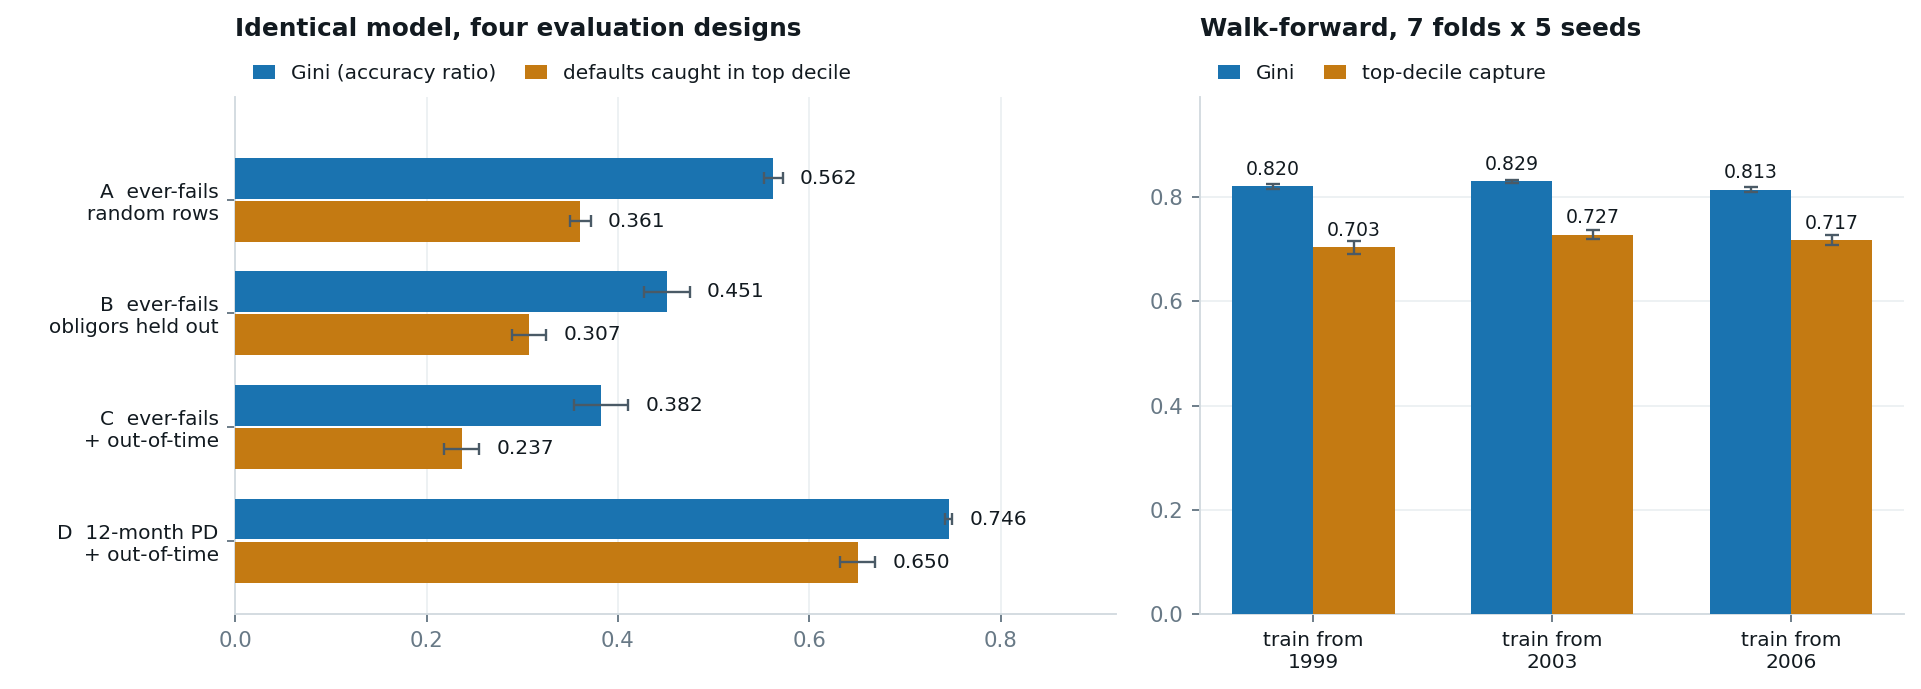
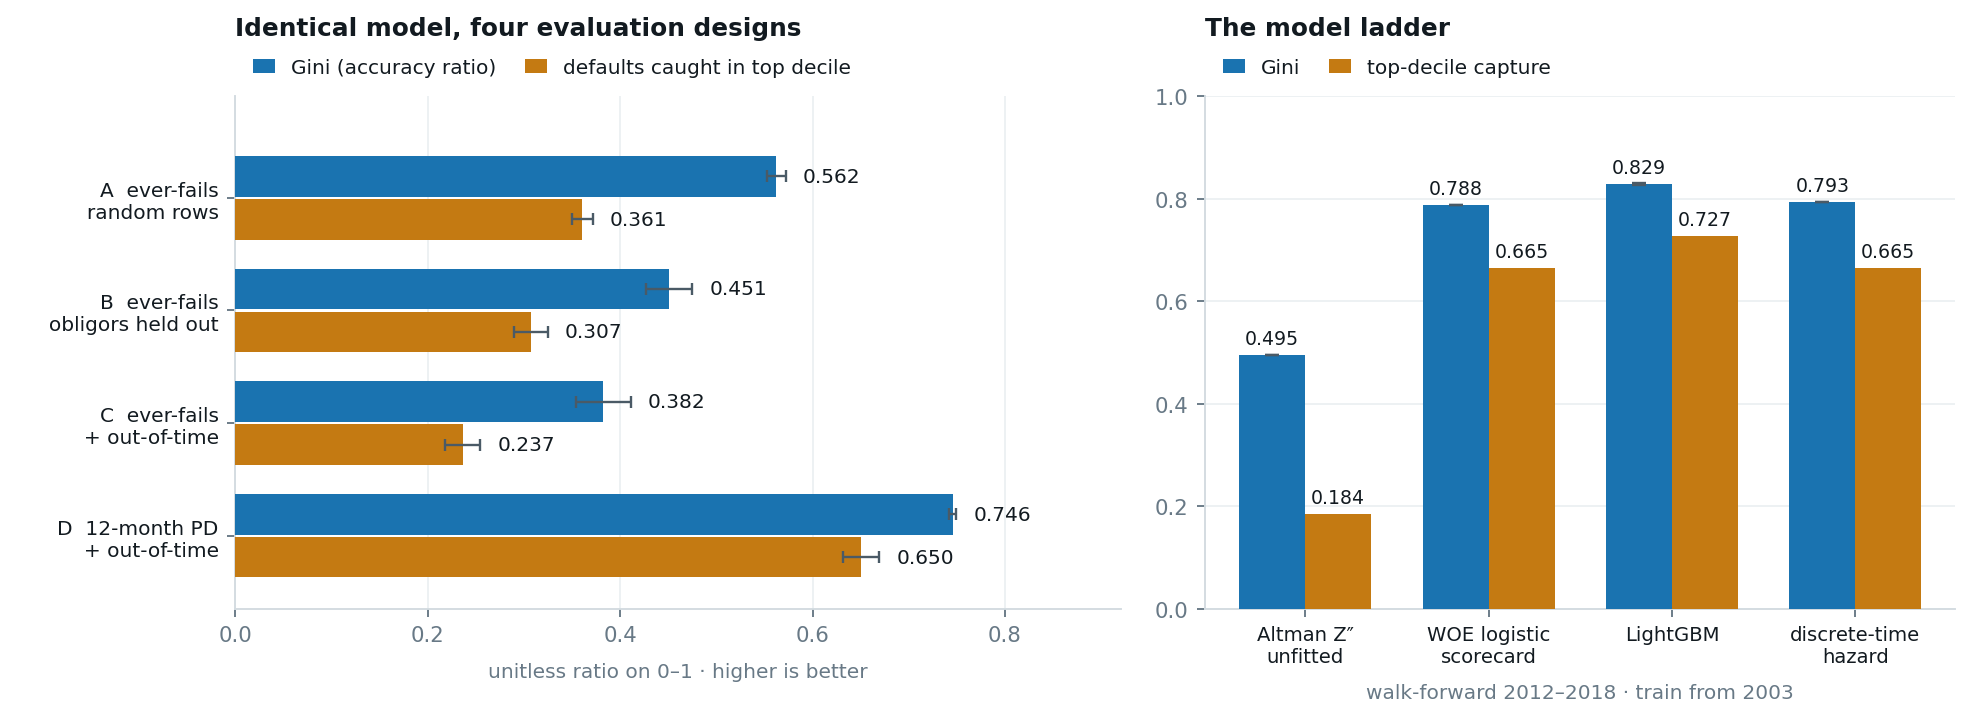
W4: model ladder - Altman, WOE scorecard, LightGBM, discrete-time hazard
Four rungs under the walk-forward + 5-seed protocol. LightGBM leads at Gini 0.829
/ 0.727 top-decile capture; the WOE scorecard reaches 0.788 / 0.665 and is what
would actually clear model validation. Altman Z-double-prime ranks the population
at 0.495 but catches only 18% of the tail.

Caught an exact linear dependency in the feature library (altman_z is a linear
combination of four other columns) that made the maximum-likelihood hazard fit
singular and scored it at near-chance. Column-pivoted QR now selects an
independent subset; a test asserts the dependency still exists so the guard is
not removed by accident.

diff --git a/src/ladder.py b/src/ladder.py
@@ -1,0 +1,203 @@
+"""
+W4 - The model ladder.
+
+Each rung has to beat the one below it to survive.  A bank does not adopt a gradient
+booster because it is a gradient booster; it adopts one because the scorecard it would
+otherwise have to defend to model risk management is measurably worse.
+
+  1. Altman Z''          1968, unfitted, zero parameters. The floor.
+  2. WOE logistic        Weight-of-evidence binning + logistic regression. This is what
+                         a credit scorecard actually is, and what gets validated.
+  3. LightGBM            Gradient boosting on the same features.
+  4. Discrete-time       Complementary log-log hazard with a baseline in obligor tenure -
+     hazard              the statistically correct framing given right-censoring.
+
+All four are fitted inside each walk-forward fold, on training rows only.  Binning
+edges, WOE tables, imputation medians and scalers are fitted on train and applied to
+test; nothing crosses the fold boundary.
+"""
+from __future__ import annotations
+import numpy as np, pandas as pd, warnings
+import lightgbm as lgb
+from sklearn.linear_model import LogisticRegression
+from sklearn.metrics import roc_auc_score, average_precision_score, brier_score_loss
+from evaluate import folds, PARAMS, SEEDS
+
+warnings.filterwarnings('ignore')
+N_BINS = 10
+SMOOTH = 0.5
+
+
+# ------------------------------------------------------------------ weight of evidence
+class WOE:
+    """Quantile binning + weight of evidence. NaN gets its own bin, as it should:
+    a missing ratio is information, not something to impute away."""
+
+    def fit(self, X: pd.DataFrame, y: np.ndarray, n_bins=N_BINS):
+        self.cols_, self.edges_, self.table_ = list(X.columns), {}, {}
+        bad_tot, good_tot = y.sum(), (1 - y).sum()
+        for c in self.cols_:
+            x = X[c].to_numpy(float)
+            e = np.unique(np.nanquantile(x[np.isfinite(x)], np.linspace(0, 1, n_bins + 1)))
+            self.edges_[c] = e[1:-1] if len(e) > 2 else np.array([np.nanmedian(x)])
+            b = self._bin(x, c)
+            w = {}
+            for k in range(len(self.edges_[c]) + 2):          # +1 interior, +1 NaN bin
+                m = b == k
+                bad = y[m].sum() + SMOOTH
+                good = (1 - y[m]).sum() + SMOOTH
+                w[k] = np.log((bad / (bad_tot + SMOOTH)) / (good / (good_tot + SMOOTH)))
+            self.table_[c] = w
+        return self
+
+    def _bin(self, x, c):
+        b = np.digitize(x, self.edges_[c])
+        b = np.where(np.isfinite(x), b, len(self.edges_[c]) + 1)
+        return b
+
+    def transform(self, X: pd.DataFrame) -> np.ndarray:
+        out = np.empty((len(X), len(self.cols_)))
+        for j, c in enumerate(self.cols_):
+            b = self._bin(X[c].to_numpy(float), c)
+            t = self.table_[c]
+            out[:, j] = np.vectorize(lambda k: t.get(k, 0.0))(b)
+        return out
+
+
+# ------------------------------------------------------------------ rungs
+def rung_altman(Xtr, ytr, Xte, dtr, dte, seed):
+    """No fitting. Lower Z'' is riskier, so the score is its negation."""
+    return -Xte['altman_z'].to_numpy(float)
+
+
+def _prep(Xtr, Xte):
+    med = Xtr.median()
+    a, b = Xtr.fillna(med), Xte.fillna(med)
+    mu, sd = a.mean(), a.std().replace(0, 1)
+    return ((a - mu) / sd).to_numpy(), ((b - mu) / sd).to_numpy()
+
+
+def rung_woe_logit(Xtr, ytr, Xte, dtr, dte, seed):
+    w = WOE().fit(Xtr, ytr)
+    m = LogisticRegression(C=0.5, max_iter=2000, class_weight='balanced')
+    m.fit(w.transform(Xtr), ytr)
+    return m.predict_proba(w.transform(Xte))[:, 1]
+
+
+def rung_lightgbm(Xtr, ytr, Xte, dtr, dte, seed):
+    m = lgb.LGBMClassifier(**{**PARAMS, 'random_state': seed}).fit(Xtr, ytr)
+    return m.predict_proba(Xte)[:, 1]
+
+
+def rung_hazard(Xtr, ytr, Xte, dtr, dte, seed):
+    """Discrete-time hazard: cloglog link with a step baseline in obligor tenure.
+
+    On person-period data a complementary log-log link makes the fitted coefficients
+    proportional-hazards, which is the model a survival analyst would write down for
+    right-censored panel data.  Falls back to logit if the GLM does not converge.
+    """
+    import statsmodels.api as sm
+    from scipy.linalg import qr
+    # WOE-transformed inputs, not raw standardised ratios, so that this rung differs
+    # from rung 2 only in the survival framing and the tenure baseline - otherwise the
+    # comparison measures functional form (binned vs linear) rather than the thing
+    # being tested.  On raw ratios this rung scores 0.551; the gap was the skew of the
+    # untransformed inputs, not the hazard formulation.
+    w = WOE().fit(Xtr, ytr)
+    a, b = w.transform(Xtr), w.transform(Xte)
+    ten_tr = np.clip(dtr.tenure.to_numpy(), 0, 9)
+    ten_te = np.clip(dte.tenure.to_numpy(), 0, 9)
+    Dtr = np.eye(10)[ten_tr]
+    Dte = np.eye(10)[ten_te]
+    A = np.hstack([a, Dtr])          # no intercept: tenure dummies span it
+    B = np.hstack([b, Dte])
+
+    # The feature library contains exact linear dependencies by construction - altman_z
+    # IS 6.56*wc_ta + 3.26*re_ta + 6.72*ebit_ta + 1.05*mve_tl.  A GLM on a singular
+    # design returns arbitrary coefficients and a useless score (this cost the rung a
+    # Gini of 0.06 before it was caught).  Column-pivoted QR picks a maximal independent
+    # subset; boosting is indifferent to this, maximum likelihood is not.
+    _, r, piv = qr(A, mode='economic', pivoting=True)
+    tol = abs(r[0, 0]) * max(A.shape) * np.finfo(float).eps
+    keep = np.sort(piv[:int((np.abs(np.diag(r)) > tol).sum())])
+    A, B = A[:, keep], B[:, keep]
+    for link in (sm.families.links.CLogLog(), sm.families.links.Logit()):
+        try:
+            g = sm.GLM(ytr, A, family=sm.families.Binomial(link=link))
+            r = g.fit(maxiter=200)
+            p = r.predict(B)
+            if np.isfinite(p).all():
+                return p
+        except Exception:
+            continue
+    return rung_woe_logit(Xtr, ytr, Xte, dtr, dte, seed)
+
+
+# (label, fn, stochastic, outputs_a_probability)
+RUNGS = [('1  Altman Z″ (unfitted)', rung_altman, False, False),
+         ('2  WOE logistic scorecard', rung_woe_logit, False, True),
+         ('3  LightGBM', rung_lightgbm, True, True),
+         ('4  Discrete-time hazard', rung_hazard, False, True)]
+
+
+# ------------------------------------------------------------------ protocol
+def metrics(y, p, is_probability):
+    """A non-finite score is a firm the model cannot rank; it gets the median score
+    rather than being silently dropped, so every model is scored on the same rows."""
+    p = np.asarray(p, float)
+    bad = ~np.isfinite(p)
+    if bad.any():
+        p = p.copy(); p[bad] = np.nanmedian(p[~bad]) if (~bad).any() else 0.0
+    k = max(int(0.10 * len(p)), 1)
+    out = dict(gini=2 * roc_auc_score(y, p) - 1,
+               top_decile=float(y[np.argsort(-p)[:k]].sum() / y.sum()),
+               pr_auc=average_precision_score(y, p),
+               unrankable=float(bad.mean()))
+    # Brier only where the output is a probability. Min-max rescaling a raw score and
+    # calling the result a Brier score would be meaningless, so Altman gets NaN.
+    out['brier'] = brier_score_loss(y, np.clip(p, 0, 1)) if is_probability else np.nan
+    return out
+
+
+def evaluate_ladder(d, F, start=2003, horizon=1, seeds=SEEDS):
+    y = d[f'y_{horizon}y']
+    out = []
+    for name, fn, stochastic, is_prob in RUNGS:
+        per_seed = []
+        for s in (seeds if stochastic else (SEEDS[0],)):
+            rows, wts = [], []
+            for T, tr, te in folds(d, start, horizon=horizon):
+                p = fn(F[tr], y[tr].to_numpy(), F[te], d[tr], d[te], s)
+                rows.append(metrics(y[te].to_numpy(), p, is_prob))
+                wts.append(y[te].sum())
+            w = np.array(wts) / sum(wts)
+            per_seed.append({k: float(np.nansum([r[k] * wi for r, wi in zip(rows, w)]))
+                             if np.isfinite([r[k] for r in rows]).any() else np.nan
+                             for k in rows[0]})
+        agg = pd.DataFrame(per_seed)
+        rec = {'model': name}
+        for k in agg.columns:
+            rec[k] = agg[k].mean()
+            rec[k + '_sd'] = agg[k].std() if len(agg) > 1 else 0.0
+        out.append(rec)
+    return pd.DataFrame(out).set_index('model')
+
+
+if __name__ == '__main__':
+    from features import build
+    d = pd.read_parquet('outputs/labelled_panel.parquet').reset_index(drop=True)
+    F, d = build(d, extended=True)
+    F = F.reset_index(drop=True); d = d.reset_index(drop=True)
+
+    r = evaluate_ladder(d, F)
+    show = r[['gini', 'gini_sd', 'top_decile', 'pr_auc', 'brier', 'unrankable']]
+    print('MODEL LADDER - walk-forward 2012-2018, train from 2003, 206 defaults')
+    print('(LightGBM averaged over 5 seeds; the other three are deterministic)\n')
+    print(show.round(4).to_string())
+
+    base = r.loc[RUNGS[0][0], 'gini']
+    print('\nlift over the unfitted Altman baseline:')
+    for name, _, _, _ in RUNGS[1:]:
+        print(f'  {name:30s} {r.loc[name, "gini"] - base:+.4f} Gini')
+    r.to_csv('outputs/model_ladder.csv')
+    print('\nwrote outputs/model_ladder.csv')

diff --git a/tests/test_pipeline.py b/tests/test_pipeline.py
@@ -108,3 +108,41 @@ def test_reliable_window_has_higher_capture_than_the_early_years(lab):
     early = ex[ex.fyear < RELIABLE_FROM].ever_fails.mean()
     late = ex[(ex.fyear >= RELIABLE_FROM) & (ex.fyear < PANEL_END)].ever_fails.mean()
     assert early < late / 2, f'early {early:.3f} vs late {late:.3f}'
+
+
+# ------------------------------------------------------------------ model ladder
+def test_feature_library_contains_an_exact_linear_dependency(panel):
+    """Regression guard for the bug that silently broke the hazard rung.
+
+    altman_z IS 6.56*wc_ta + 3.26*re_ta + 6.72*ebit_ta + 1.05*mve_tl, so any
+    maximum-likelihood fit on the raw design matrix is singular.  If this assertion ever
+    fails the dependency has been removed and the QR pivot in ladder.rung_hazard can go;
+    while it holds, the pivot is load-bearing.
+    """
+    from features import build
+    F, _ = build(panel, extended=True)
+    z = F.altman_z - (6.56 * F.wc_ta + 3.26 * F.re_ta + 6.72 * F.ebit_ta + 1.05 * F.mve_tl)
+    assert np.nanmax(np.abs(z)) < 1e-6
+    A = F[['altman_z', 'wc_ta', 're_ta', 'ebit_ta', 'mve_tl']].dropna().to_numpy()
+    assert np.linalg.matrix_rank(A) == 4, 'expected rank deficiency'
+
+
+def test_woe_is_fitted_on_training_rows_only(panel):
+    """WOE edges must come from train; a test row outside the training range must still
+    map to a finite score rather than leaking a test-derived bin edge."""
+    from ladder import WOE
+    X = pd.DataFrame({'a': np.arange(1000.0)})
+    y = (np.arange(1000) % 50 == 0).astype(int)
+    w = WOE().fit(X.iloc[:500], y[:500])
+    out = w.transform(pd.DataFrame({'a': [-1e9, 1e9, np.nan]}))
+    assert np.isfinite(out).all()
+    assert w.edges_['a'].max() <= 500
+
+
+def test_ladder_ranks_better_than_chance():
+    lad = pathlib.Path('outputs/model_ladder.csv')
+    if not lad.exists():
+        pytest.skip('run `make ladder` first')
+    r = pd.read_csv(lad)
+    assert (r.gini > 0.4).all(), 'a rung is near chance - check for a singular design'
+    assert r.gini.max() > 0.75

diff --git a/README.md b/README.md
@@ -86,6 +86,50 @@ recent data.
 
 ---
 
+## The model ladder
+
+Each rung has to beat the one below it. Walk-forward 2012–2018, train from 2003, 206 defaults:
+
+| | Gini | Top-decile capture | PR-AUC | Brier |
+|---|---|---|---|---|
+| 1 Altman Z″, unfitted | 0.495 | 0.184 | 0.021 | — |
+| 2 WOE logistic scorecard | 0.788 | 0.665 | 0.106 | 0.124 |
+| **3 LightGBM** | **0.829 ± 0.003** | **0.727** | **0.208** | 0.009 |
+| 4 Discrete-time hazard (cloglog + tenure baseline) | 0.793 | 0.665 | 0.123 | 0.009 |
+
+Three things worth reading off this table.
+
+**The 1968 formula gets half the Gini for zero parameters — but only 18% of the tail.** Altman Z″
+ranks the population respectably and is nearly useless where a watchlist actually operates. Gini
+alone would have hidden that; capture-at-decile is the metric that exposes it.
+
+**Boosting is worth +0.041 Gini and +6.2 points of capture over the scorecard.** Real, but that is
+the whole case for it. A bank weighing that against the model-risk overhead of a non-parametric
+model is making a defensible decision either way, and the scorecard is what would actually clear
+validation.
+
+**The survival framing buys almost nothing here — +0.005 Gini over the same inputs.** Once
+eligibility already handles censoring and the horizon is one year, a discrete-time hazard reduces to
+a binary classifier with a tenure covariate. Recorded as a negative result rather than dropped.
+
+The Brier column is not yet a calibration result. The scorecard's 0.124 against LightGBM's 0.009 is
+almost entirely `class_weight='balanced'`, which inflates predicted probabilities by roughly the
+inverse base rate. It costs nothing in ranking and destroys the probabilities. Fixing that is W5.
+
+### The bug this rung caught
+
+`altman_z` is *by construction* `6.56·wc_ta + 3.26·re_ta + 6.72·ebit_ta + 1.05·mve_tl` — an exact
+linear dependency inside the feature library. Gradient boosting is indifferent to it. Maximum
+likelihood is not: the first hazard fit returned a Gini of **0.06**, near chance, from a singular
+design matrix. A column-pivoted QR now selects a maximal independent subset before fitting, and a
+test asserts the dependency still exists so the guard cannot be removed by accident.
+
+A second, subtler version: on raw standardised ratios the same rung scored 0.551, and the gap was
+the skew of the untransformed inputs rather than anything about hazard models. It is fitted on
+WOE-transformed inputs so that rung 4 differs from rung 2 *only* in the survival framing.
+
+---
+
 ## Honest limitations
 
 - **The repair's integrity case is closed; its performance case is not.** Identities go from 0.56 to
@@ -121,7 +165,8 @@ make all
 ```
 
 `make all` clones the source panel, runs the audit, repairs the scale corruption, builds
-point-in-time labels, and runs the walk-forward evaluation. Roughly 10 minutes on a laptop.
+point-in-time labels, runs the walk-forward evaluation and fits the model ladder. Roughly 20
+minutes on a laptop.
 
 Individual stages:
 
@@ -131,6 +176,7 @@ make audit      # variable-mapping recovery + corruption quantification
 make repair     # -> outputs/clean_panel.parquet
 make labels     # -> outputs/labelled_panel.parquet
 make evaluate   # walk-forward results
+make ladder     # the four-rung model comparison
 make test       # pytest
 ```
 
@@ -144,6 +190,7 @@ src/
   features.py        credit ratio library: levels, trajectories, industry-relative
   leakage.py         the four-arm evaluation-design experiment
   evaluate.py        walk-forward protocol and the label-capture test
+  ladder.py          the four-rung model comparison, WOE scorecard included
   verify_repair.py   does the repair change anything that matters?
 tests/               invariants the repair and labels must satisfy
 docs/findings.md     the audit written up in full
